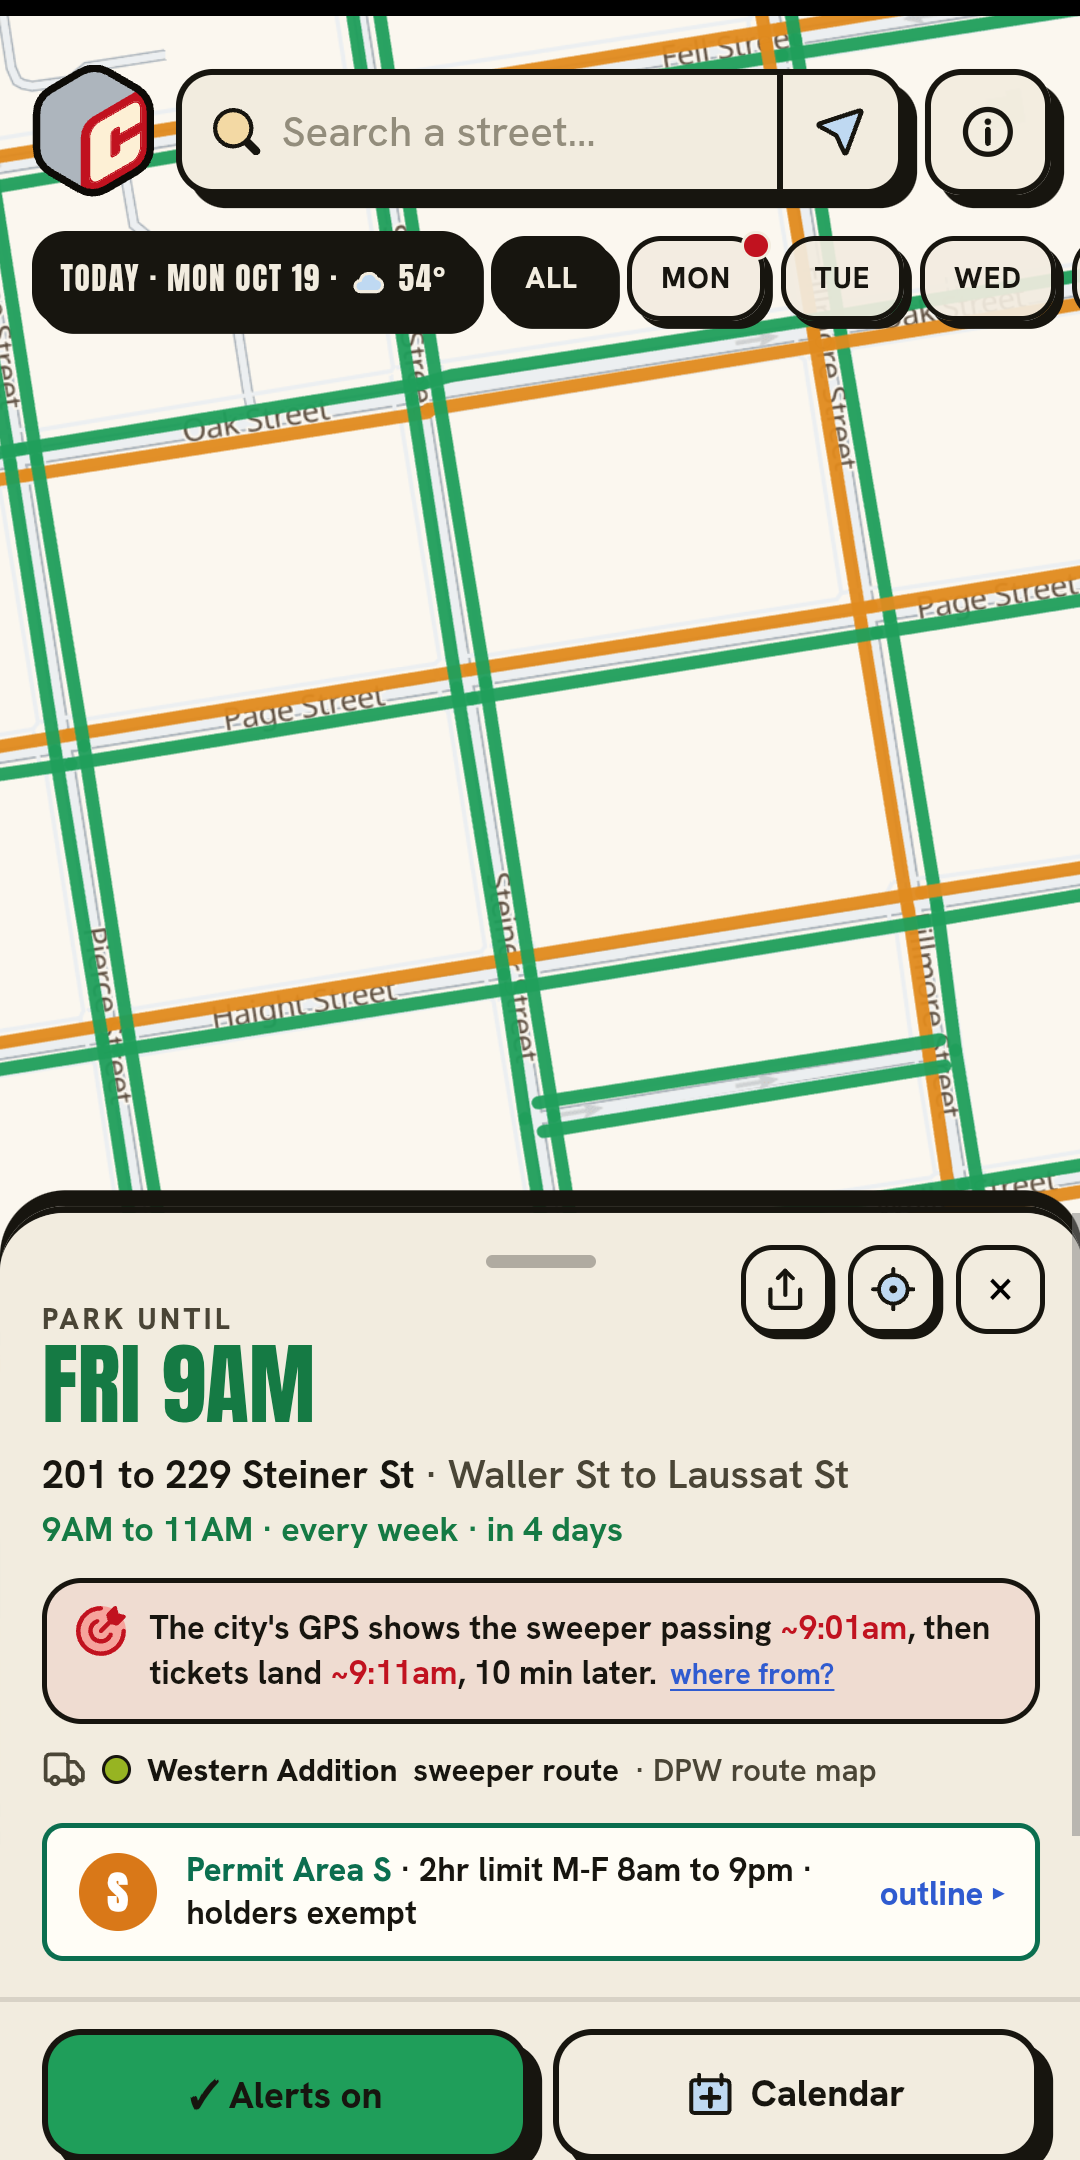
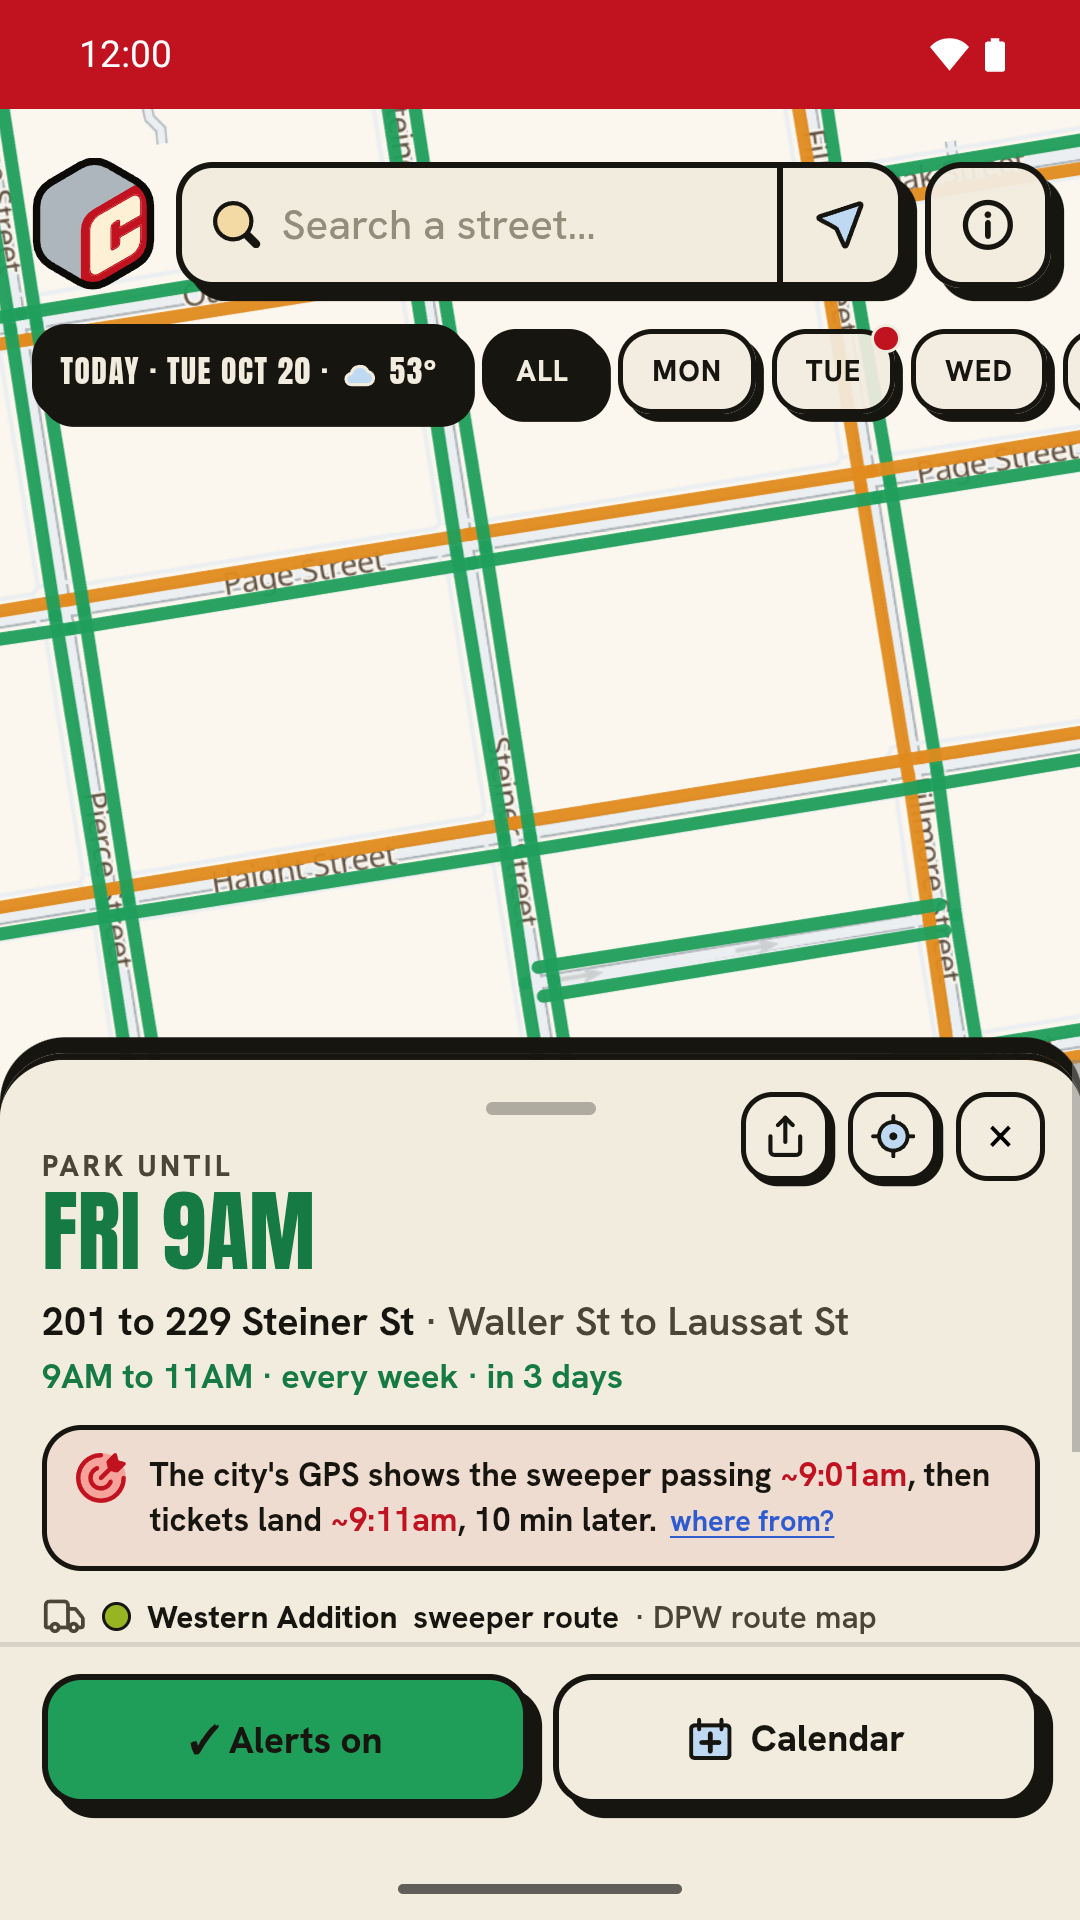
docs(android): 9:16 Play screenshots and the Data safety answers as saved
Play only takes 16:9 or 9:16 phone screenshots; the 1080x2160 ones were
refused. Retook the same three screens on the emulator at 1080x1920 with a
clean demo-mode status bar (a crop cut the search bar or the alert
buttons). PLAY-LISTING.md now records the Data safety answers the owner
picked: the alert's block declared as precise location, and deletion yes
now that Turn off removes the block.

Claude-Session: https://claude.ai/code/session_01CafTDKp9Rux2tLXYFXm3ZR

diff --git a/android/PLAY-LISTING.md b/android/PLAY-LISTING.md
@@ -9,7 +9,7 @@ The Android app is a Trusted Web Activity of curb.guide (package `guide.curb.and
 **Website:** https://curb.guide · **Email:** hello@curb.guide · **Privacy policy:** https://curb.guide/privacy
 
 **Graphics** (in `play/`): app icon `icon-512.png` (512 x 512), feature graphic `feature-graphic.jpg` (1024 x 500),
-phone screenshots `screenshot-1.png` to `screenshot-3.png` (1080 x 2160, real screens from the app).
+phone screenshots `screenshot-1.png` to `screenshot-3.png` (1080 x 1920, 9:16 as Play requires; real screens from the app on the emulator, demo mode status bar).
 
 ## Full description (4000 max)
 ```
@@ -56,10 +56,14 @@ CURB is on Android: every San Francisco curb colored by its next sweep, when tic
 - **Content rating:** questionnaire category "All other app types"; no violence, sexual content, profanity, drugs, gambling or user interaction (no chat, no user content shared). Expected rating: Everyone.
 - **Target audience:** 18 and over (it's for drivers). Not designed for children.
 - **News app:** no. **Government app:** no (independent; the description says so and names the sources). **Financial features:** none. **Health:** none.
-- **Data safety:**
-  - Collected, not shared, encrypted in transit, optional: *Device or other IDs* (the anonymous push subscription, only if alerts are on; purpose: app functionality) and *App activity, other actions* (the block and sweep time picked for an alert; app functionality). Users can delete it: Turn off on the alert removes the block and time.
-  - Collected, not shared, required: *App info and performance, crash logs and diagnostics* (anonymous error reports: message, page, coarse device type; purpose: analytics) and *App activity, app interactions* (cookieless aggregate page views and feature counts; analytics).
-  - Not collected: location (the locate button uses it on the phone only), name, email, contacts, photos, financial data.
+- **Data safety** (owner's picks, 20-Oct-2026): collects data, nothing shared, all encrypted in transit, no accounts.
+  - *Location, precise* (optional, app functionality, not ephemeral): the block you set an alert for, kept with the alert, plus the area the map loads after you tap locate. The locate fix itself never leaves the phone.
+  - *Device or other IDs* (optional, app functionality): the anonymous push subscription, only if alerts are on.
+  - *App activity, other actions* (optional, app functionality): the alert settings picked (intensity, voice).
+  - *App activity, app interactions* (required, analytics): cookieless aggregate page views and feature counts.
+  - *App info and performance, crash logs and diagnostics* (required, analytics): anonymous error reports (message, page, coarse device type).
+  - Deletion: yes. Turn off on an alert removes the block and sweep time at once (from 20-Oct-2026 a turned-off watch keeps only unreadable keys, `offKeys` in api/_store.js); the anonymous push endpoint stays, with nothing to send, as /privacy says.
+  - Not collected: name, email, contacts, photos, financial data.
 
 ## Signing and the site link
 - Play App Signing (Google keeps the app signing key). Upload key: `../private/android/curb-upload.keystore`, alias `upload`, password in the macOS Keychain item "CURB Android upload keystore". Never commit it.
